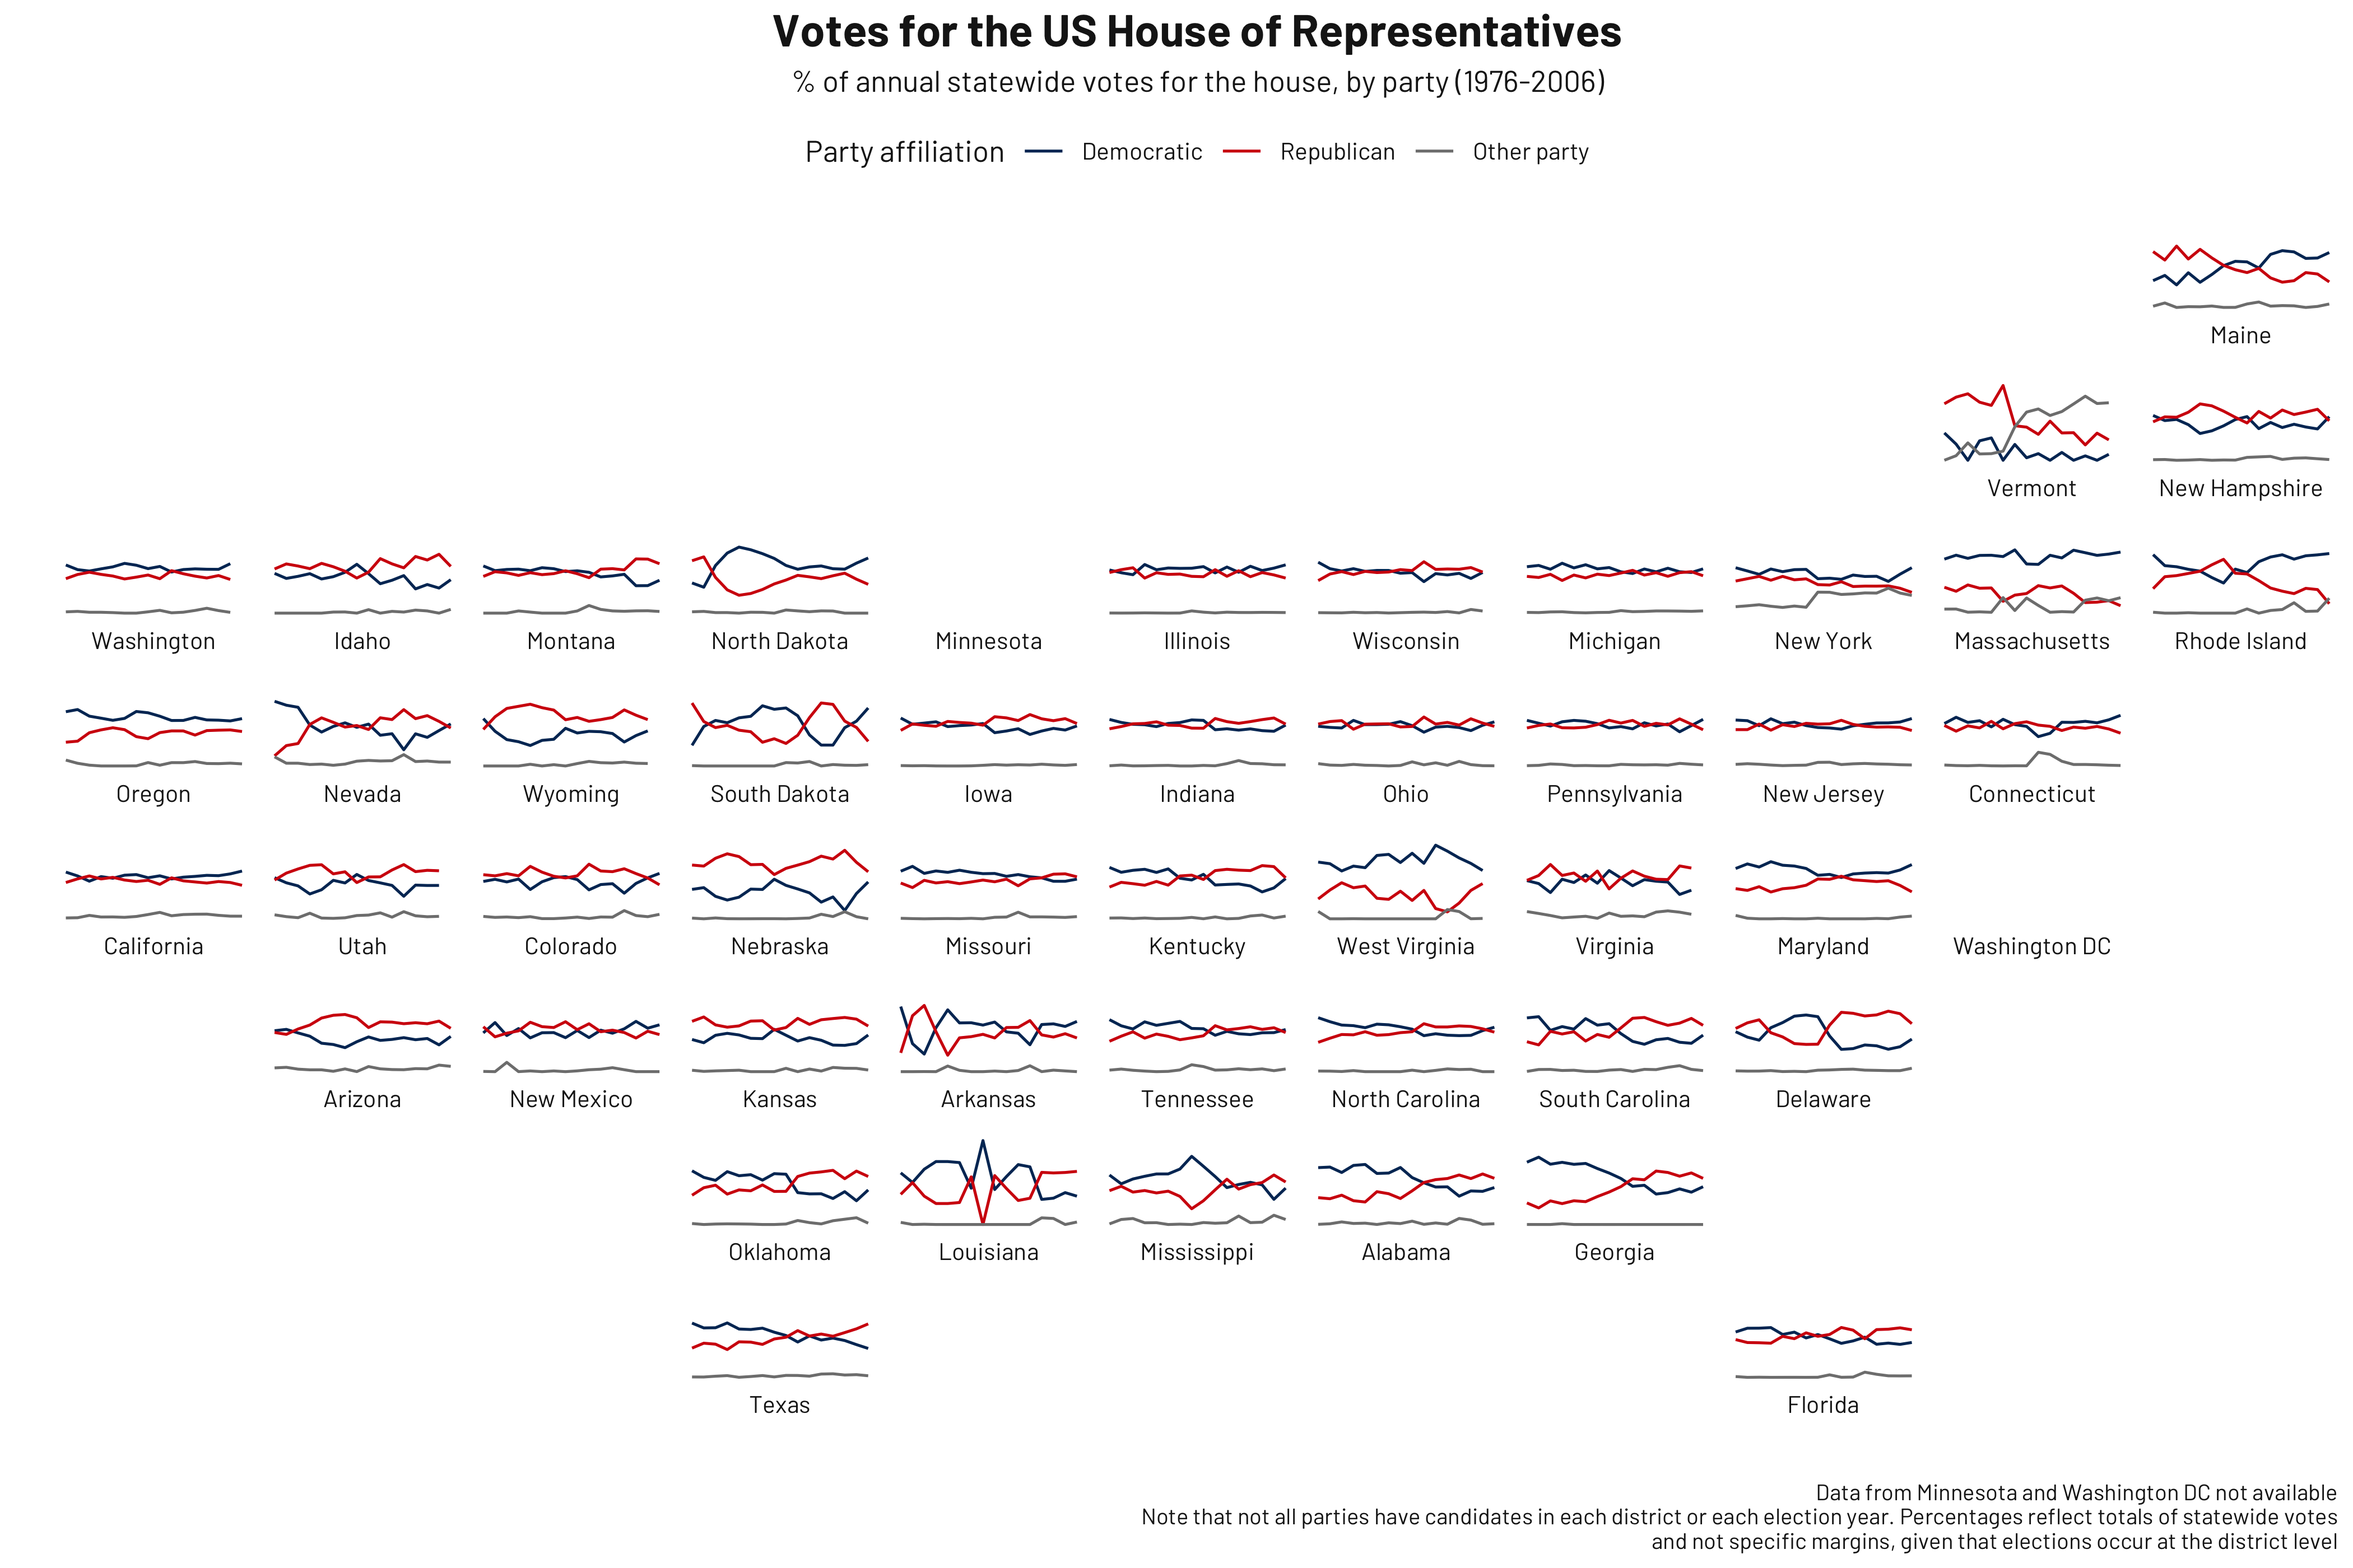
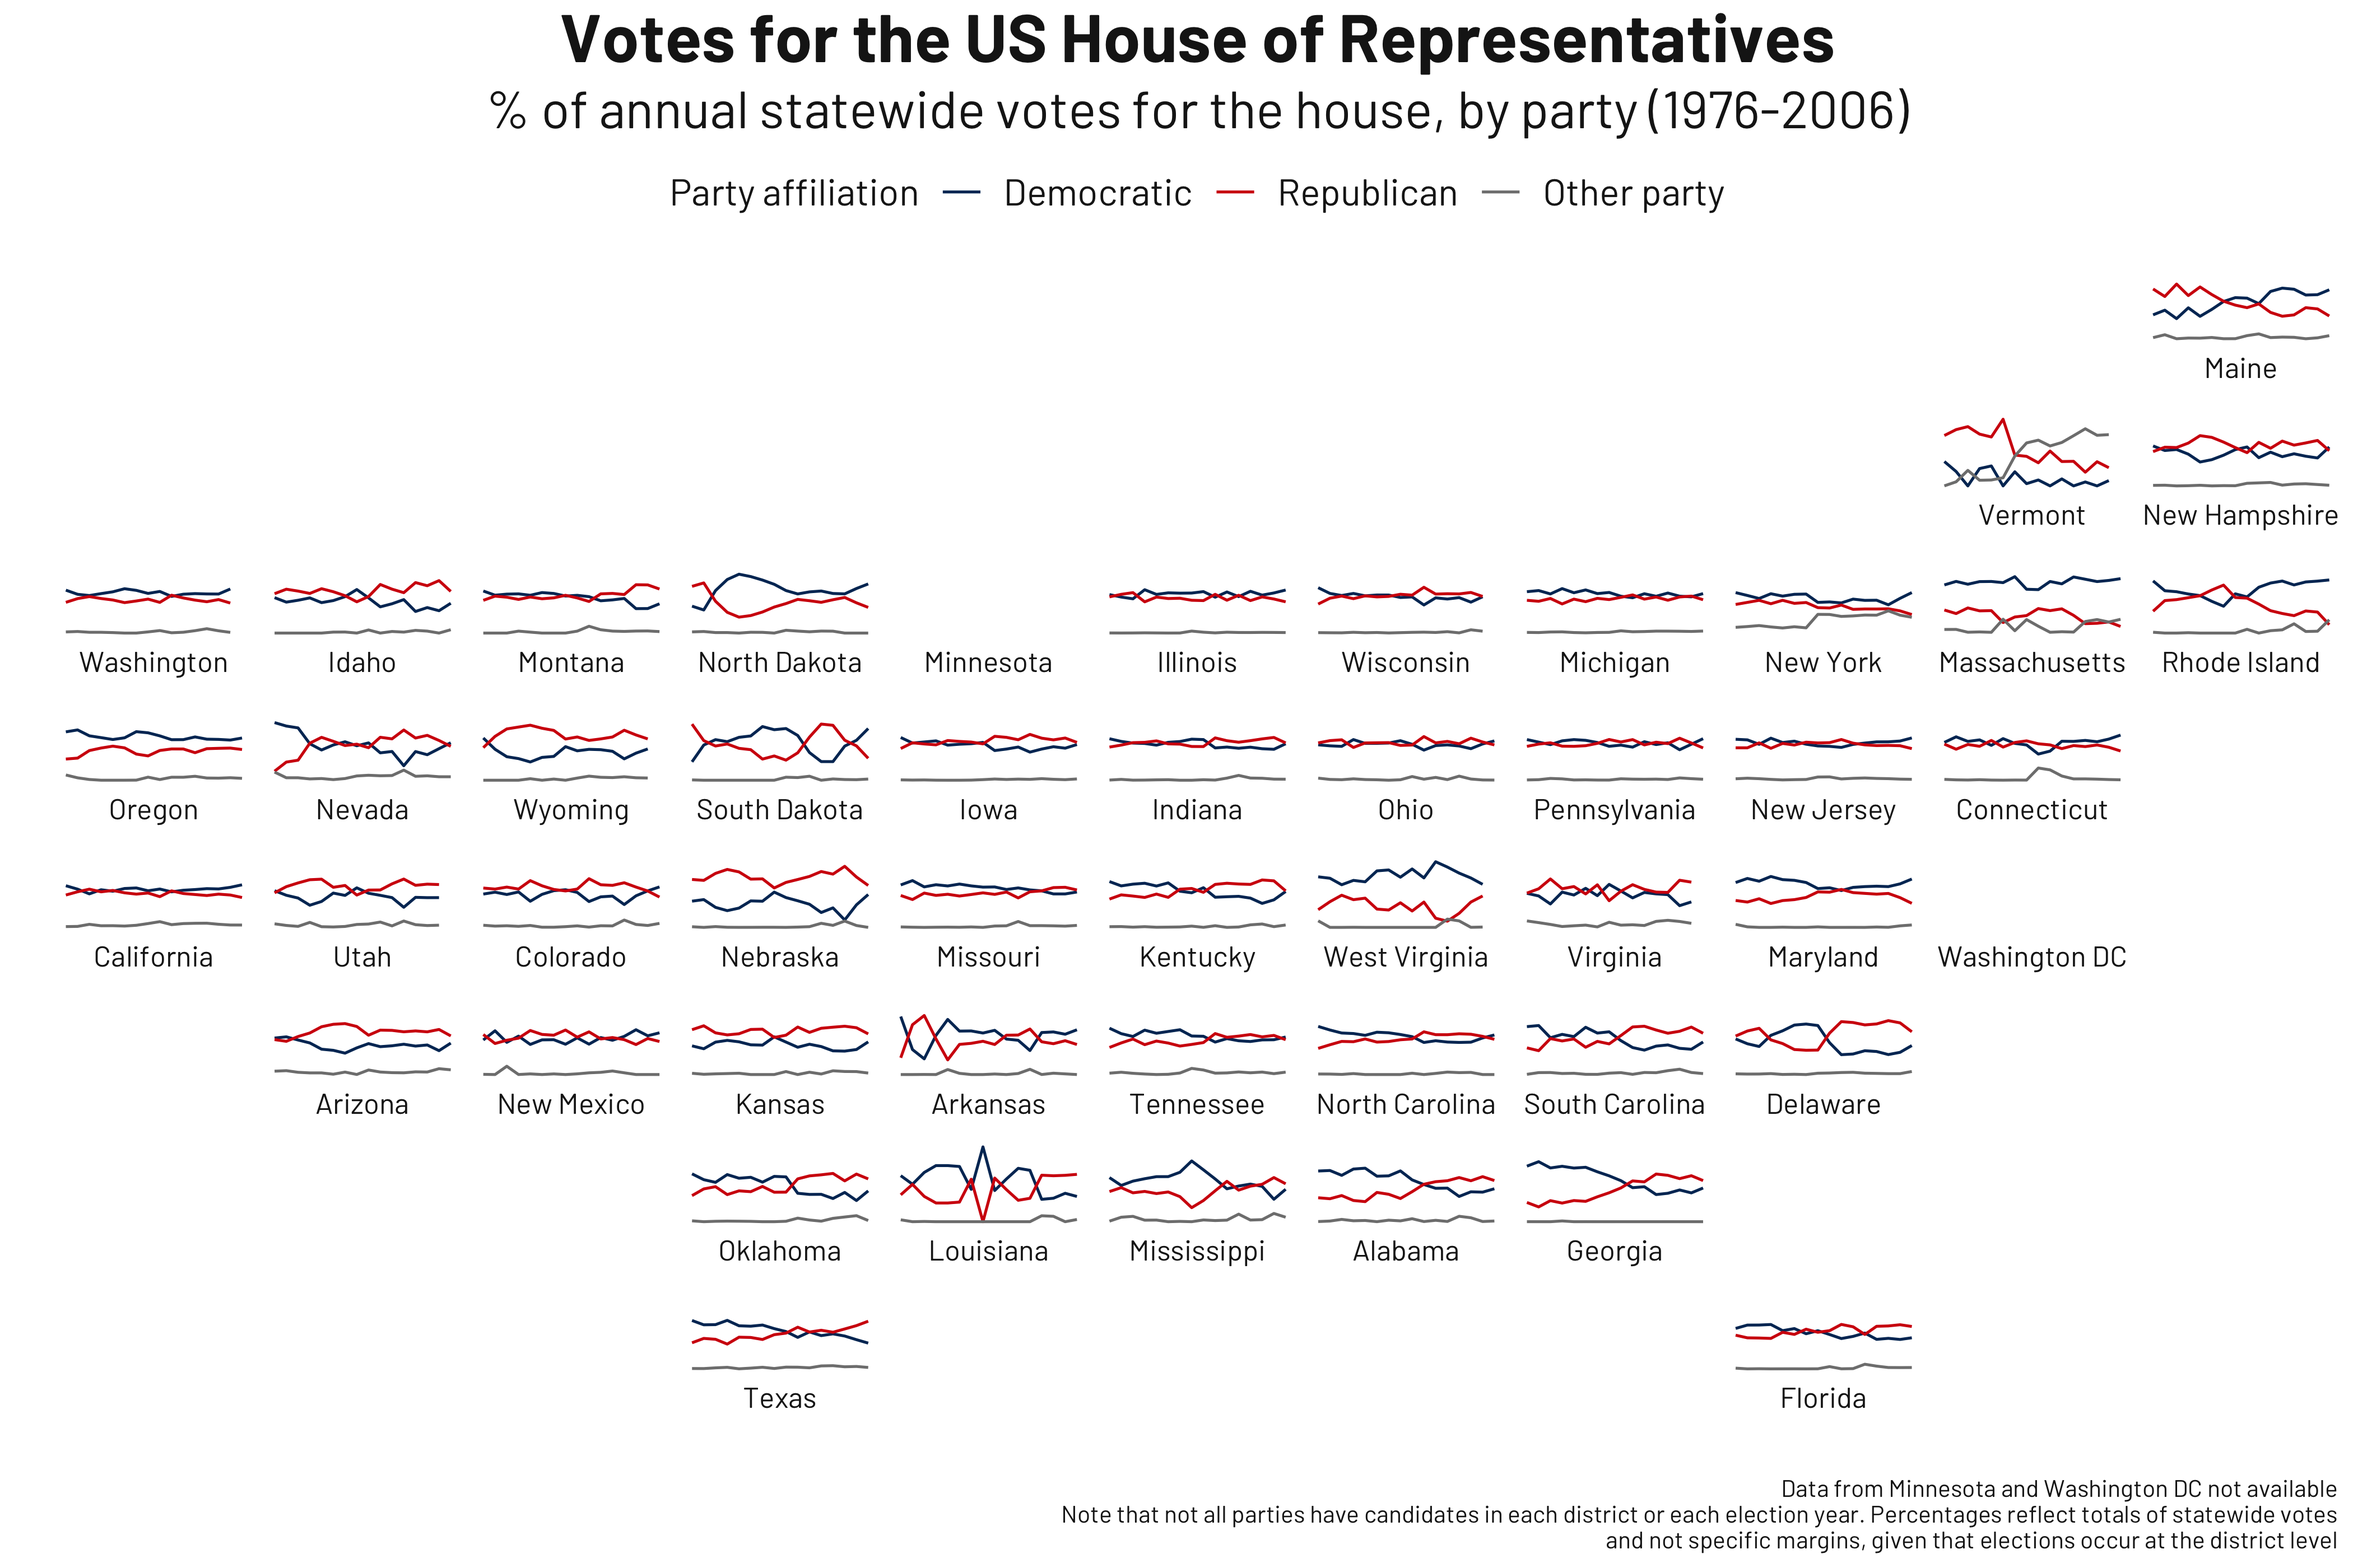
update figure sizing

diff --git a/README.md b/README.md
@@ -16,18 +16,20 @@ New data are posted every Monday morning. You can use these data to create a vis
 ---
 
 <p align="center" width="100%">
-<img src = "2023/week43_risk/pe_risk.png" alt = "Cleveland dot plot illustrating risk of pulmonary embolism across a number of risk factors" width = "80%" height = "80%"/>
+<img src = "2023/week43_risk/pe_risk.png" alt = "Cleveland dot plot illustrating risk of pulmonary embolism across a number of risk factors" width = "100%" height = "100%"/>
 </p>
 
 ---
 
 <p align="center" width="100%">
-<img src = "2023/week44_horror_legends/scary_snopes.png" alt = "Bar chart in circular form illustrating key themes in Snopes horror urban legends" width = "80%" height = "80%"/>
+<img src = "2023/week44_horror_legends/scary_snopes.png" alt = "Bar chart in circular form illustrating key themes in Snopes horror urban legends" width = "100%" height = "100%"/>
 </p>
 
 ---
 
-![Figure illustrating the percentage of annual statewide votes for the US House of Representatives, by party (1976-2006)](2023/week45_electionresults/pct_votes_by_state.png)
+<p align="center" width="100%">
+<img src = "2023/week45_electionresults/pct_votes_by_state.png" alt = "Figure illustrating the percentage of annual statewide votes for the US House of Representatives, by party (1976-2006)" width = "100%" height = "100%"/>
+</p>
 
 ---
 
